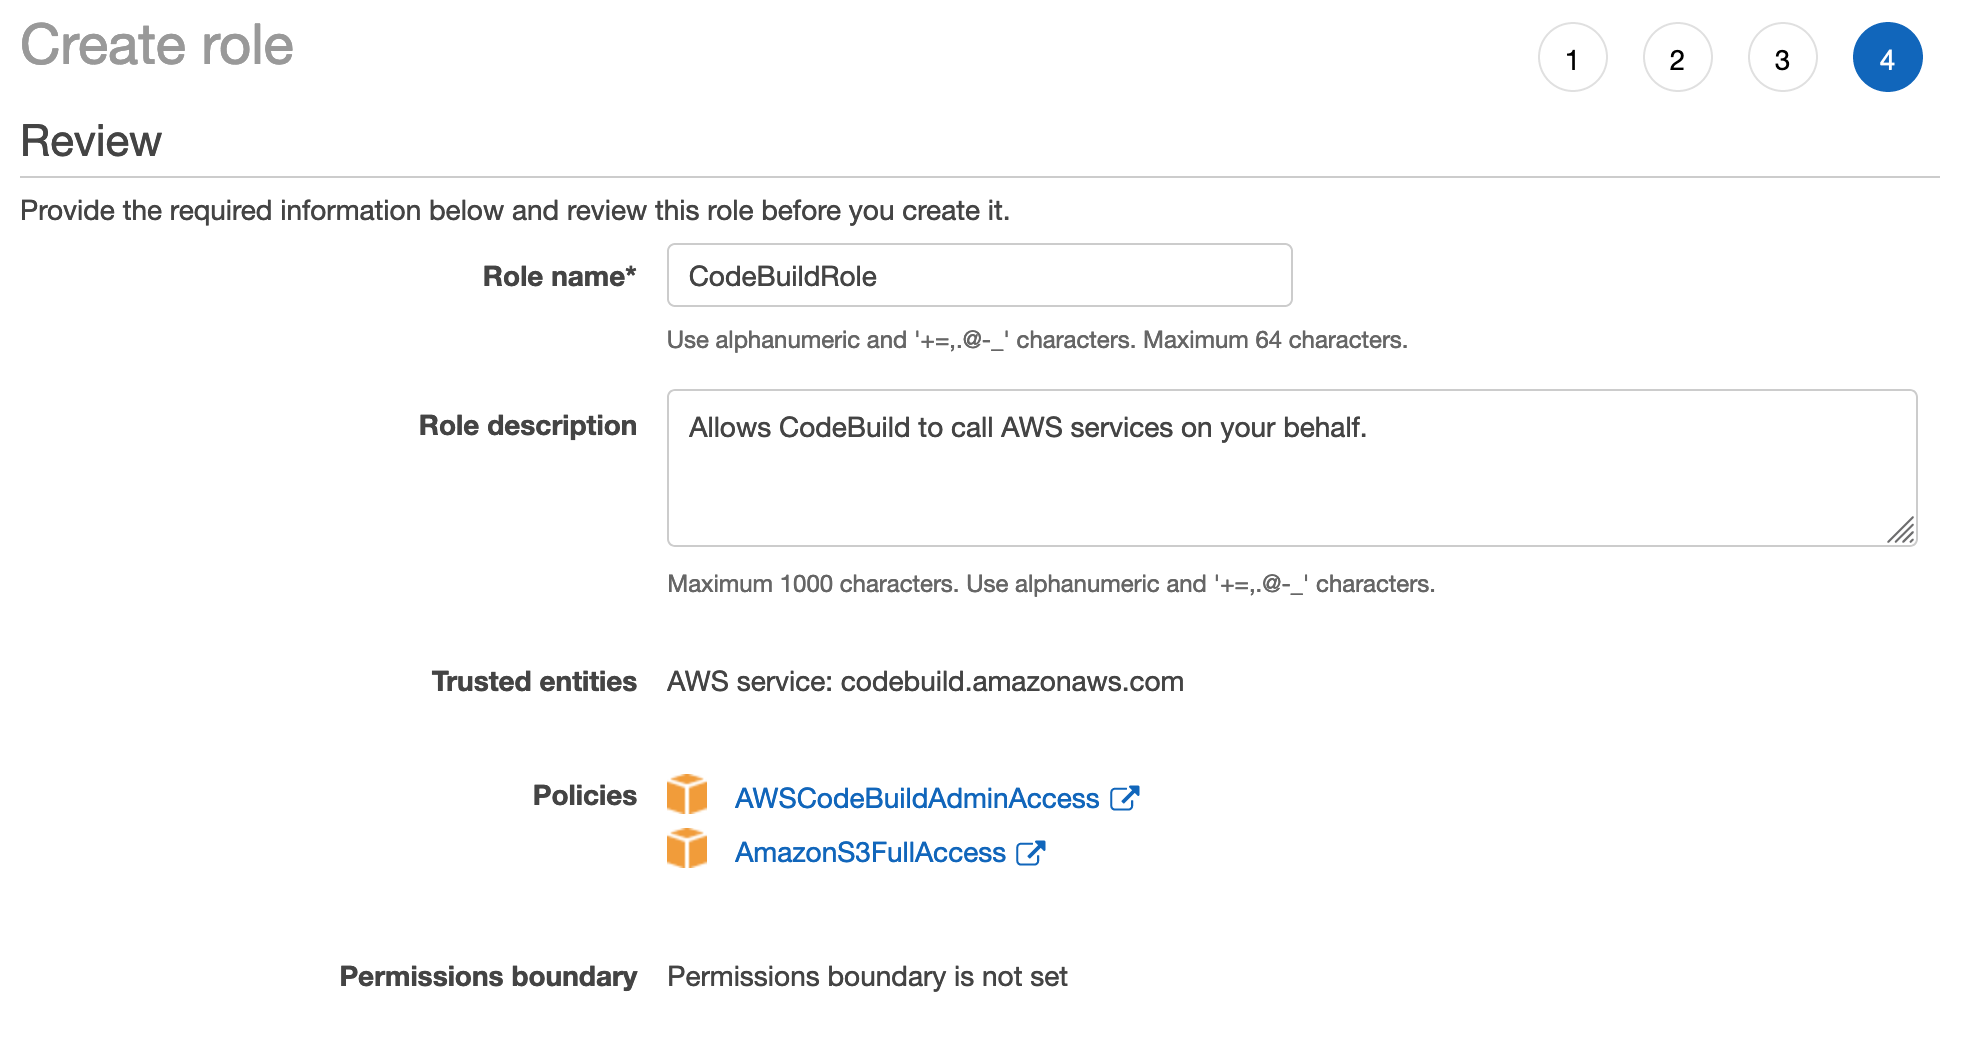
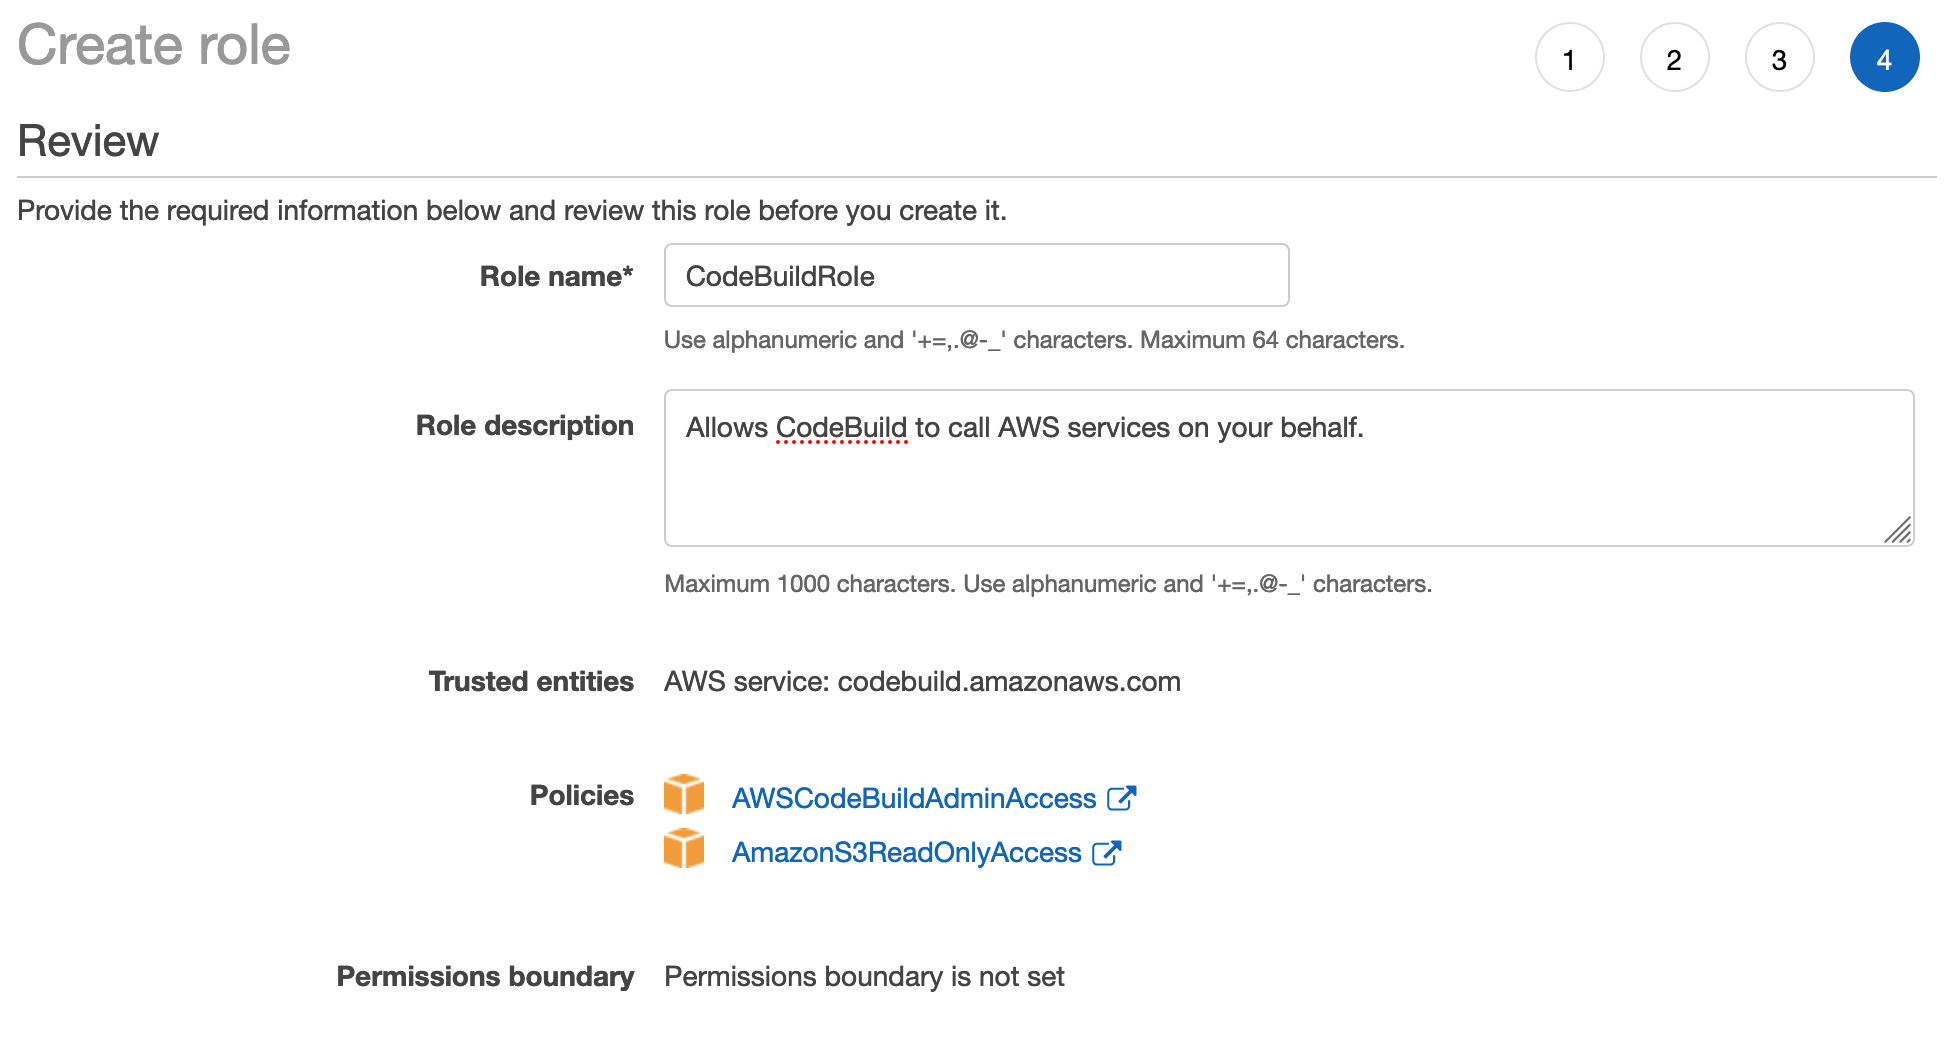
fix image

diff --git a/1_Lab1.md b/1_Lab1.md
@@ -184,7 +184,7 @@ For more information, see [Browse the Contents of a Repository](http://docs.aws.
 
 9. Click on **Next: Review**.
 
-10. Enter `CodeBuildRole` in **Role name**. You should also see **AWSCodeBuildAdminAccess** and **AmazonS3FullAccess** in the list of policies attached as shown.
+10. Enter `CodeBuildRole` in **Role name**. You should also see **AWSCodeBuildAdminAccess** and **AmazonS3ReadOnlyAccess** in the list of policies attached as shown.
 
   ![Codebuild Policies](img/codebuild-policies3.png)
 
